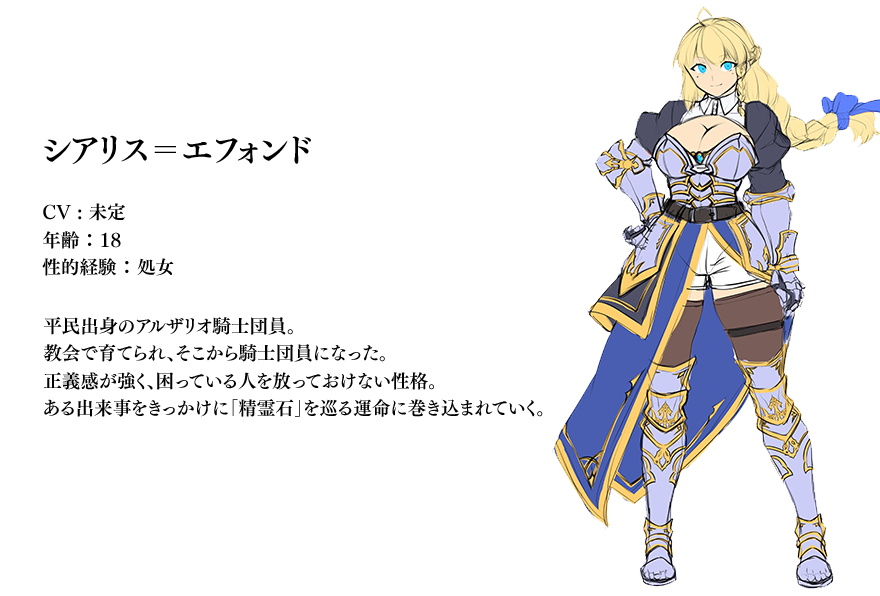
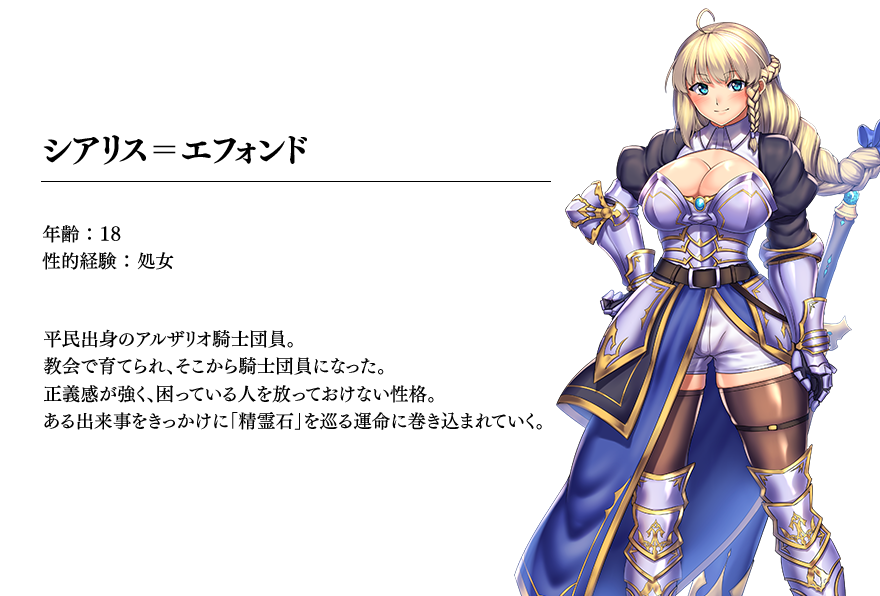
Add files via upload

Changed region(s): [[0.0307, 0.0, 1.0, 1.0], [0.0307, 0.3322, 0.2148, 0.4832], [0.0614, 0.2114, 0.3682, 0.2718]]

diff --git a/index.html b/index.html
@@ -85,7 +85,7 @@
   <div id="news">
     <div class="text-black">
       <div class="width-90">
-        <div class="ptb-10">
+        <div class="ptb-10 dpb-15">
           <img class="lp-section" src="images/section/com_news.png">
           <hr class="mb-6">
 
@@ -147,7 +147,7 @@
   <div id="story">
     <div class="text-black bg01">
       <div class="width-90">
-        <div class="ptb-10">
+        <div class="ptb-10 dptb-15">
           <img class="lp-section" src="images/section/com_story_w.png">
           <hr class="mb-6 hr-white">
 
@@ -167,14 +167,14 @@
   <div id="char">
     <div class="text-black">
       <div class="width-90">
-        <div class="ptb-10">
+        <div class="ptb-10 dptb-15">
           <img class="lp-section" src="images/section/com_chara.png">
           <hr class="mb-6">
 
           <div>
             <div class="text-center">
               <ul id="subImg">
-                <li class="mx-2 current">キャラ01<img src="images/char/char_01.png"></li>
+                <li class="mx-2 current">シリアス<img src="images/char/char_01.png"></li>
                 <li class="mx-2">キャラ02<img src="images/char/char_02.png"></li>
                 <li class="mx-2">キャラ03<img src="images/char/char_03.png"></li>
                 <li class="mx-2">キャラ04<img src="images/char/char_04.png"></li>

diff --git a/assets/mystyle.css b/assets/mystyle.css
@@ -965,6 +965,13 @@ li{
     padding-top: 12rem;
     padding-bottom: 12rem;
   }
+  .dptb-15{
+    padding-top: 15rem;
+    padding-bottom: 15rem;
+  }
+  .dpb-15{
+    padding-bottom: 15rem;
+  }
   .dmtb-15{
     padding-top: 15rem;
     padding-bottom: 15rem;
